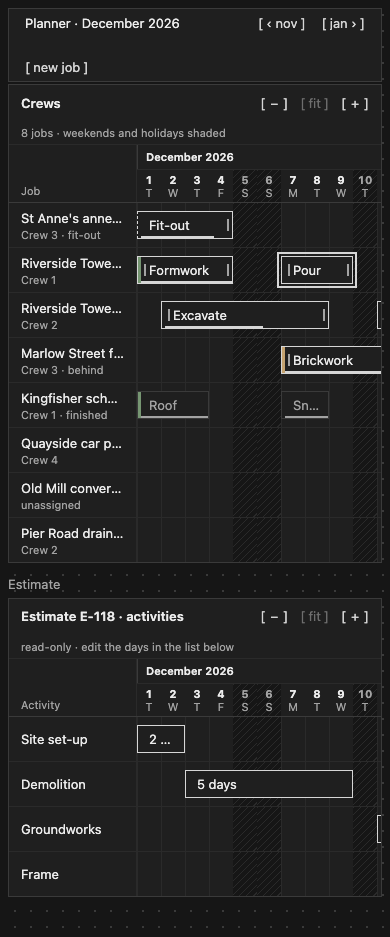
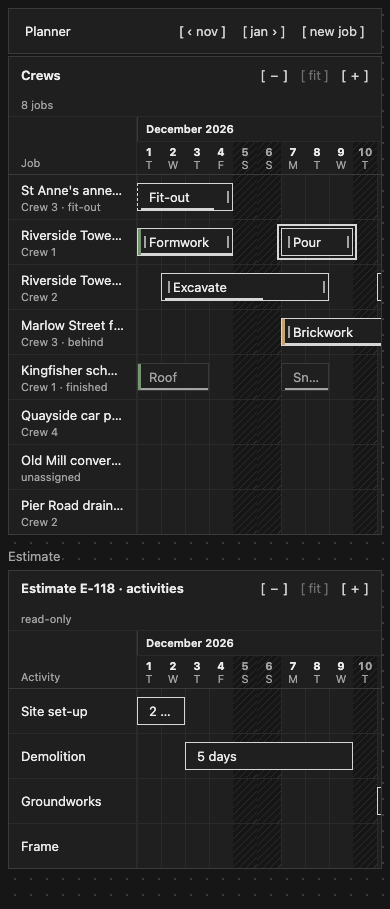
design: timeline, cut the explanatory meta lines and the page head's month (#137, q2373)

diff --git a/docs/design/timeline/data.js b/docs/design/timeline/data.js
@@ -2,7 +2,7 @@
 const OFF = ["2026-12-05", "2026-12-06", "2026-12-10", "2026-12-12", "2026-12-13", "2026-12-19", "2026-12-20", "2026-12-26", "2026-12-27", "2026-12-31"];
 const d = n => "2026-12-" + String(n).padStart(2, "0");
 var planner = {
-  type: "timeline", id: "plan", title: "Crews", meta: "8 jobs · weekends and holidays shaded", from: d(1), to: d(31), off: OFF, corner: "Job",
+  type: "timeline", id: "plan", title: "Crews", meta: "8 jobs", from: d(1), to: d(31), off: OFF, corner: "Job",
   move: { action: "schedule", name: "bar" }, stretch: { action: "schedule", name: "bar" }, draw: { action: "schedule", name: "bar" },
   rows: [
     { id: "j0", title: "St Anne's annexe", subtitle: "Crew 3 · fit-out", bars: [{ id: "b01", start: "2026-11-23", end: d(4), label: "Fit-out", progress: 80 }] },
@@ -29,7 +29,7 @@ var planner = {
   ],
 };
 var activities = {
-  type: "timeline", id: "acts", title: "Estimate E-118 · activities", meta: "read-only · edit the days in the list below", from: d(1), to: d(31), off: OFF, corner: "Activity", static: false,
+  type: "timeline", id: "acts", title: "Estimate E-118 · activities", meta: "read-only", from: d(1), to: d(31), off: OFF, corner: "Activity", static: false,
   rows: [
     { id: "a1", title: "Site set-up", bars: [{ id: "x1", start: d(1), end: d(2), label: "2 days" }] },
     { id: "a2", title: "Demolition", bars: [{ id: "x2", start: d(3), end: d(9), label: "5 days" }] },

diff --git a/docs/design/timeline/planner.html b/docs/design/timeline/planner.html
@@ -2,7 +2,7 @@
 <link rel="stylesheet" href="../neutral-default/tokens.css"><link rel="stylesheet" href="../../../web/dist/blocks.css"><link rel="stylesheet" href="timeline.css"><link rel="stylesheet" href="page.css">
 <script src="timeline.js"></script><script src="data.js"></script><title>timeline: planner, December</title></head>
 <body><main class="scr">
-<div class="top"><div class="tabh"><span class="tw">Planner · December 2026</span><button type="button"><span>‹ nov</span></button><button type="button"><span>jan ›</span></button><button type="button"><span>new job</span></button></div></div>
+<div class="top"><div class="tabh"><span class="tw">Planner</span><button type="button"><span>‹ nov</span></button><button type="button"><span>jan ›</span></button><button type="button"><span>new job</span></button></div></div>
 <div data-src="planner"></div>
 <div class="sh">Estimate</div>
 <div data-src="activities"></div>

diff --git a/docs/design/timeline/README.md b/docs/design/timeline/README.md
@@ -8,7 +8,7 @@ Open questions: (1) The ADR gives the block no `today` and allows no clock, so n
 
 | Image | What it shows |
 |---|---|
-| `planner-light-1440.png`, `planner-dark-1440.png` | The planner case: a 200 px title column (title and subtitle), a month band and a day row (number and weekday letter), and 31 days at the fit width (32 px). One row per job. Weekends and the two holidays (`off`) are hatched on `--bg`. Bars show: the tone tick (ok, warn, bad, info, accent); progress 100/80/60/30 %; a finished job's `fixed` bars (edge frame, muted, no grips); a range cut by `from` (St Anne's) and by `to` (Dig), each with a dashed end and no grip there; a one-day bar whose label sits beside it (Inspect); an empty row (Old Mill). "Pour" has keyboard focus (2 px ink ring). The app's own `‹ nov` and `jan ›` buttons change the range; the kind has only zoom (`− fit +`). Under it, the activity case: the same kind with no gesture field, so there are no grips and its bars are list items |
+| `planner-light-1440.png`, `planner-dark-1440.png` | The planner case: a 200 px title column (title and subtitle), a month band and a day row (number and weekday letter), and 31 days at the fit width (32 px). The page head reads only "Planner"; the month shows once, in each card's day header. The headers' meta is short: "8 jobs" and "read-only". One row per job. Weekends and the two holidays (`off`) are hatched on `--bg`. Bars show: the tone tick (ok, warn, bad, info, accent); progress 100/80/60/30 %; a finished job's `fixed` bars (edge frame, muted, no grips); a range cut by `from` (St Anne's) and by `to` (Dig), each with a dashed end and no grip there; a one-day bar whose label sits beside it (Inspect); an empty row (Old Mill). "Pour" has keyboard focus (2 px ink ring). The app's own `‹ nov` and `jan ›` buttons change the range; the kind has only zoom (`− fit +`). Under it, the activity case: the same kind with no gesture field, so there are no grips and its bars are list items |
 | `planner-light-390.png`, `planner-dark-390.png` | On a phone: the title column narrows to 128 px and stays put, days stay at 24 px, and the lane scrolls sideways under a sticky month label. The header's meta drops to its own line |
 | `gesture-*-1440.png`, `gesture-*-390.png` | 15 frames, each with what a screen reader hears. Move: 1 focused, 2 pressed (lifted 3 px), 3 previewing (snapped, the same length, dates in a tag, a dashed outline where it came from), 4 past the range with no candidate (faded, "no drop here"), 5 sent (dimmed, "sending…"), 6 confirmed, 7 refused (back where it was, with the app's reason as a `toast`), 8 confirmed somewhere else (it slides to the data). Stretch: 9 a grip focused, 10 the end pulled (the bar fades and a dashed ghost grows from the fixed start), 11 the start pulled past the end (stops at 1 day), 12 sent. Draw: 13 the + cell on an empty day, 14 a drag over empty days, 15 sent with no id, waiting for the app to add it |
 | `states-*-1440.png`, `states-*-390.png` | 1 every tone, progress 0/60/100, fixed, mute, cut ends, short bars, and focus on a bar and on each grip. 2 the hit areas: a 44 px square across each edge, and the body between them. 3 day widths 48, fit, 16 (week numbers, no grips, "zoom in to drag") and 6 (a quarter, months only). 4 stress: long titles and labels, overlapping bars stacked into sub-lanes, the `empty` text, an empty lane, and 24 rows scrolling inside the block with sticky headers. 5 the keys, the named actions and what is heard. 6 read-only and the static page: no grips and no zoom |
